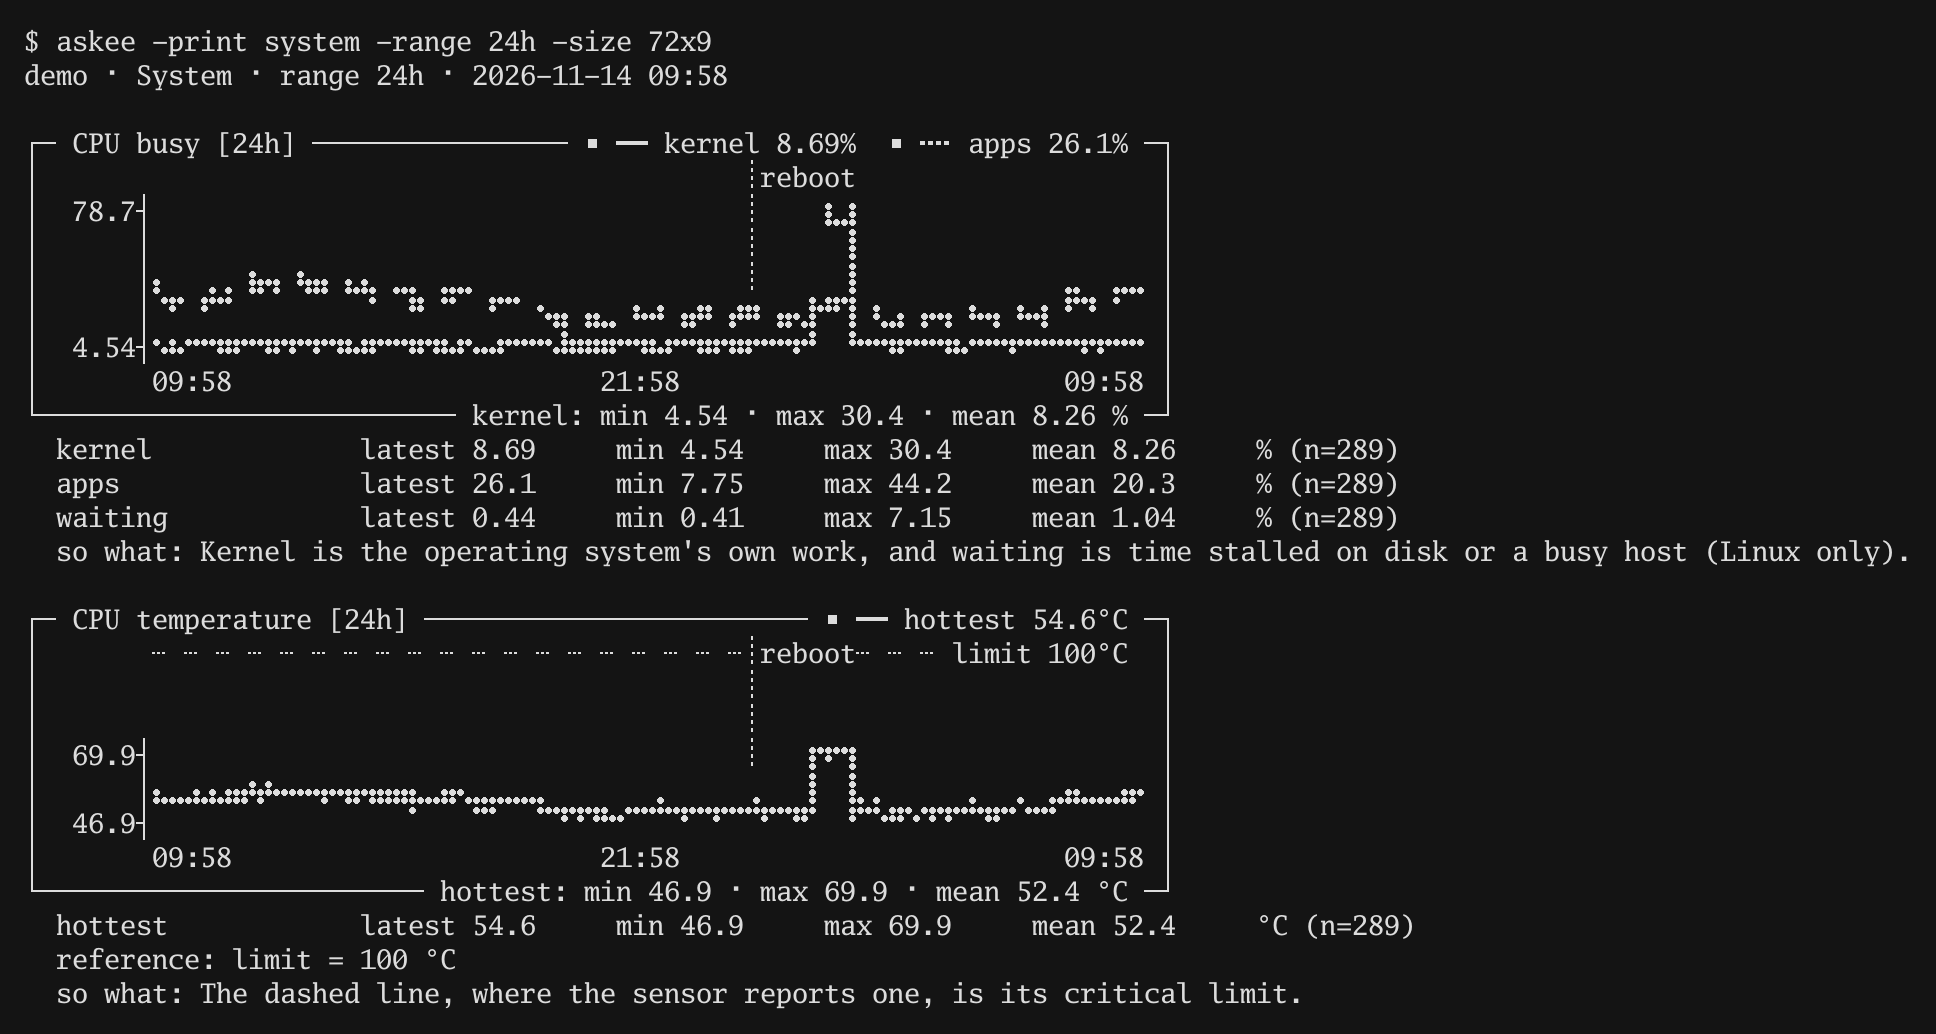
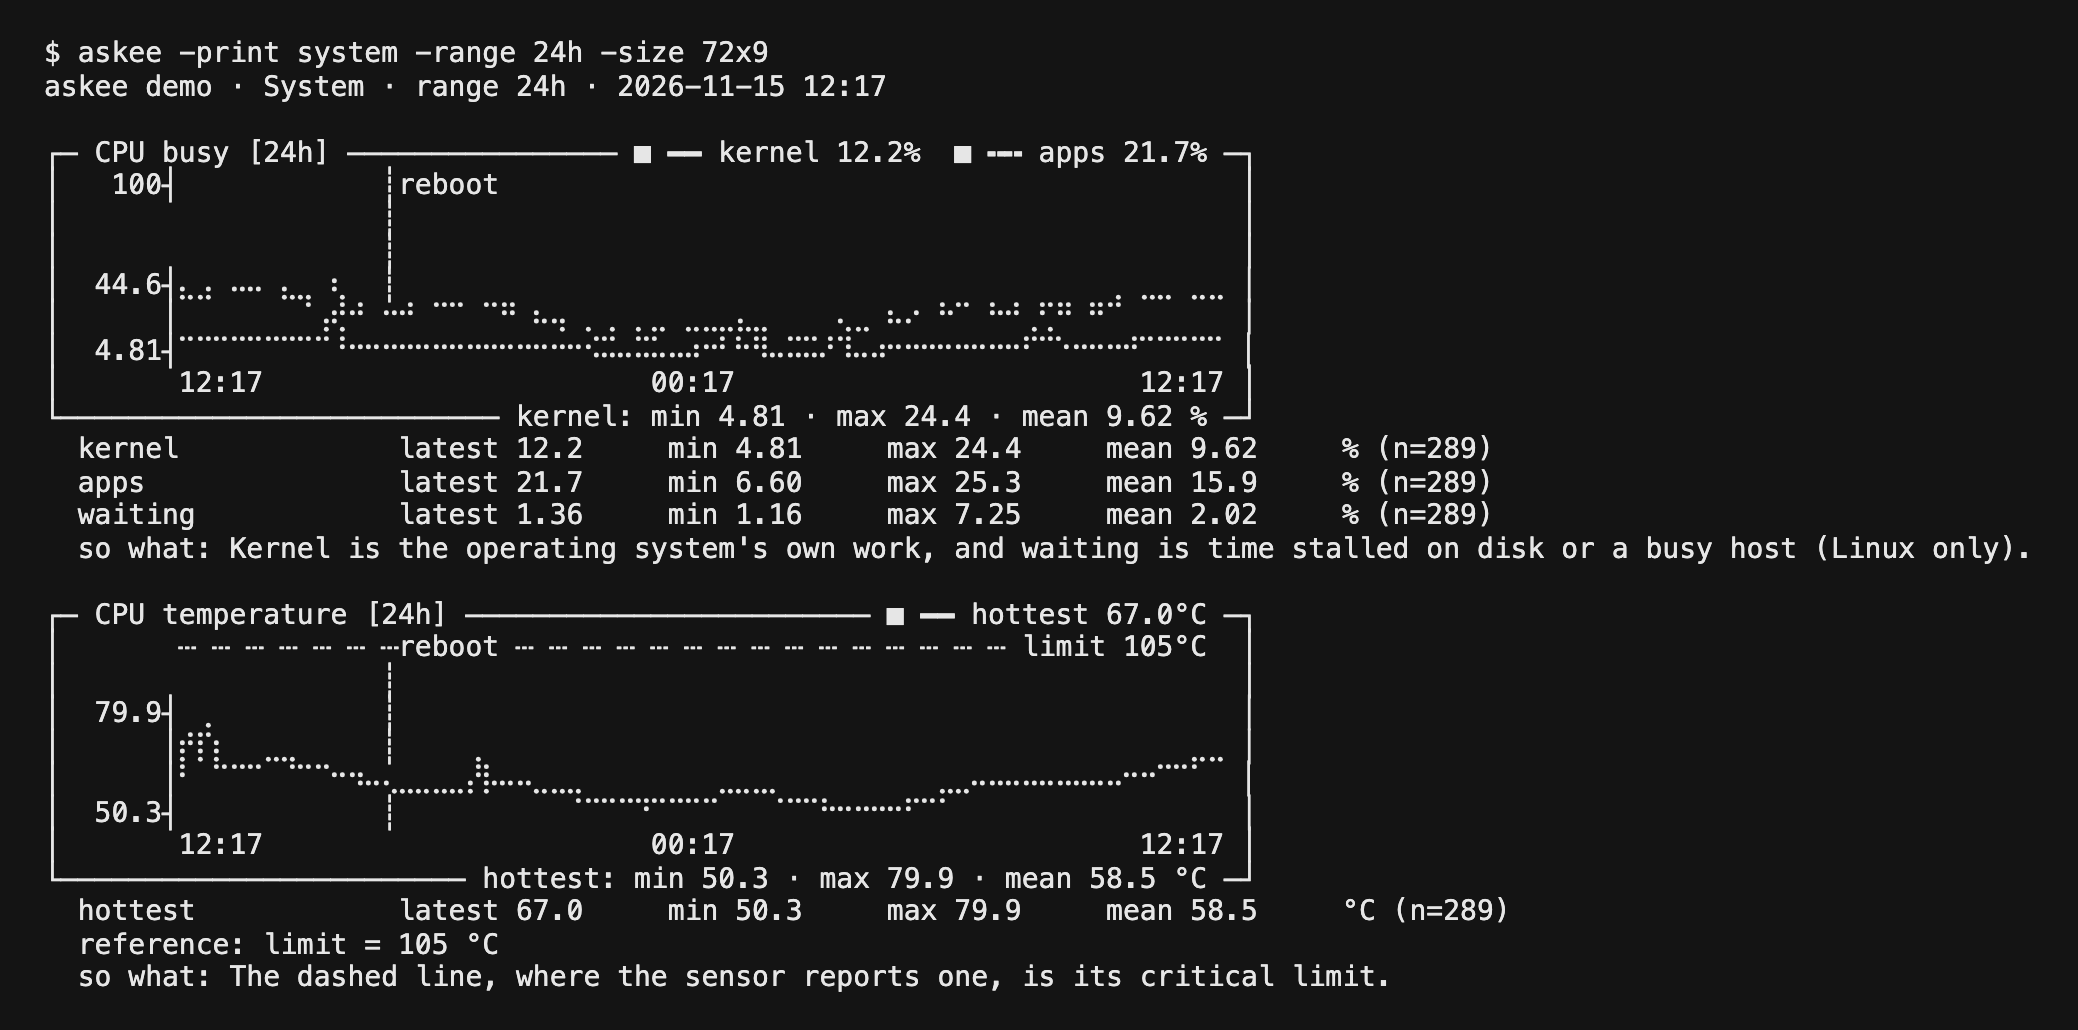
README: draw the -print image in a terminal font
The -print example is now Menlo on carbon's charcoal, like the other
terminal shots, from the same synthetic data. The number lines quoted
under it match the new run.

diff --git a/README.md b/README.md
@@ -105,9 +105,9 @@ GitHub's code font has no braille:
 The number lines are plain text, so scripts can read them:
 
 ```
-  kernel             latest 8.69     min 4.54     max 30.4     mean 8.26     % (n=289)
-  apps               latest 26.1     min 7.75     max 44.2     mean 20.3     % (n=289)
-  hottest            latest 54.6     min 46.9     max 69.9     mean 52.4     °C (n=289)
+  kernel             latest 12.2     min 4.81     max 24.4     mean 9.62     % (n=289)
+  apps               latest 21.7     min 6.60     max 25.3     mean 15.9     % (n=289)
+  hottest            latest 67.0     min 50.3     max 79.9     mean 58.5     °C (n=289)
 ```
 
 ### Flags
